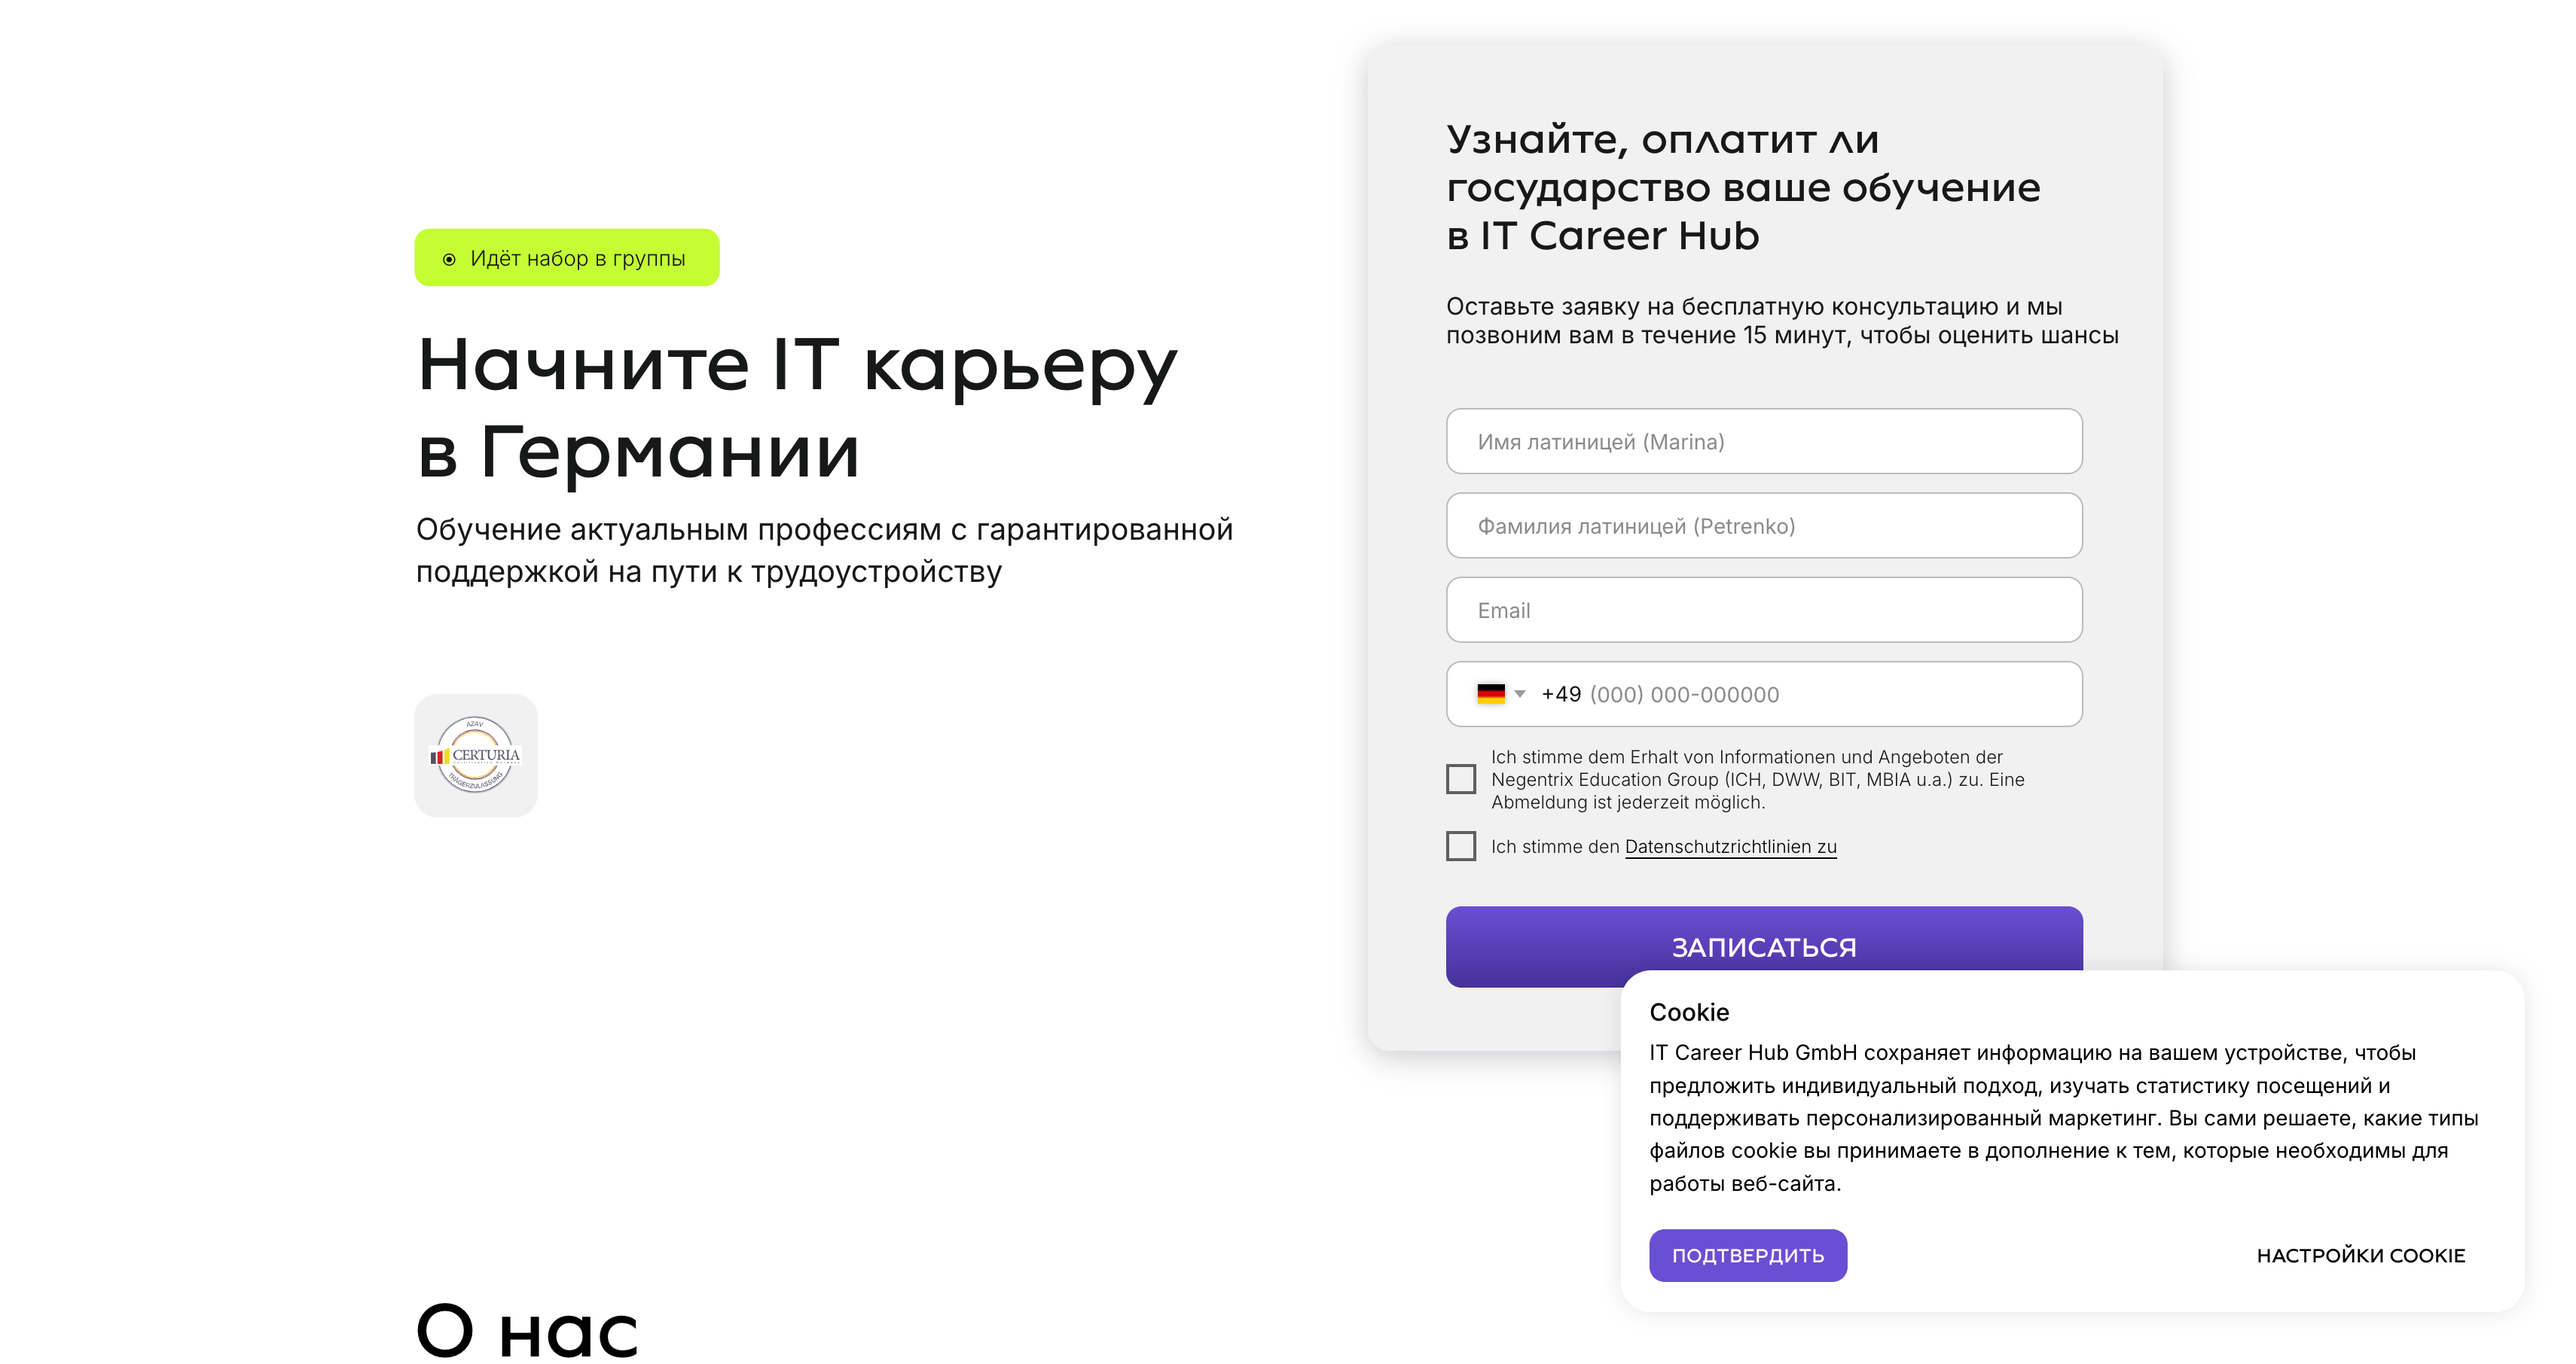
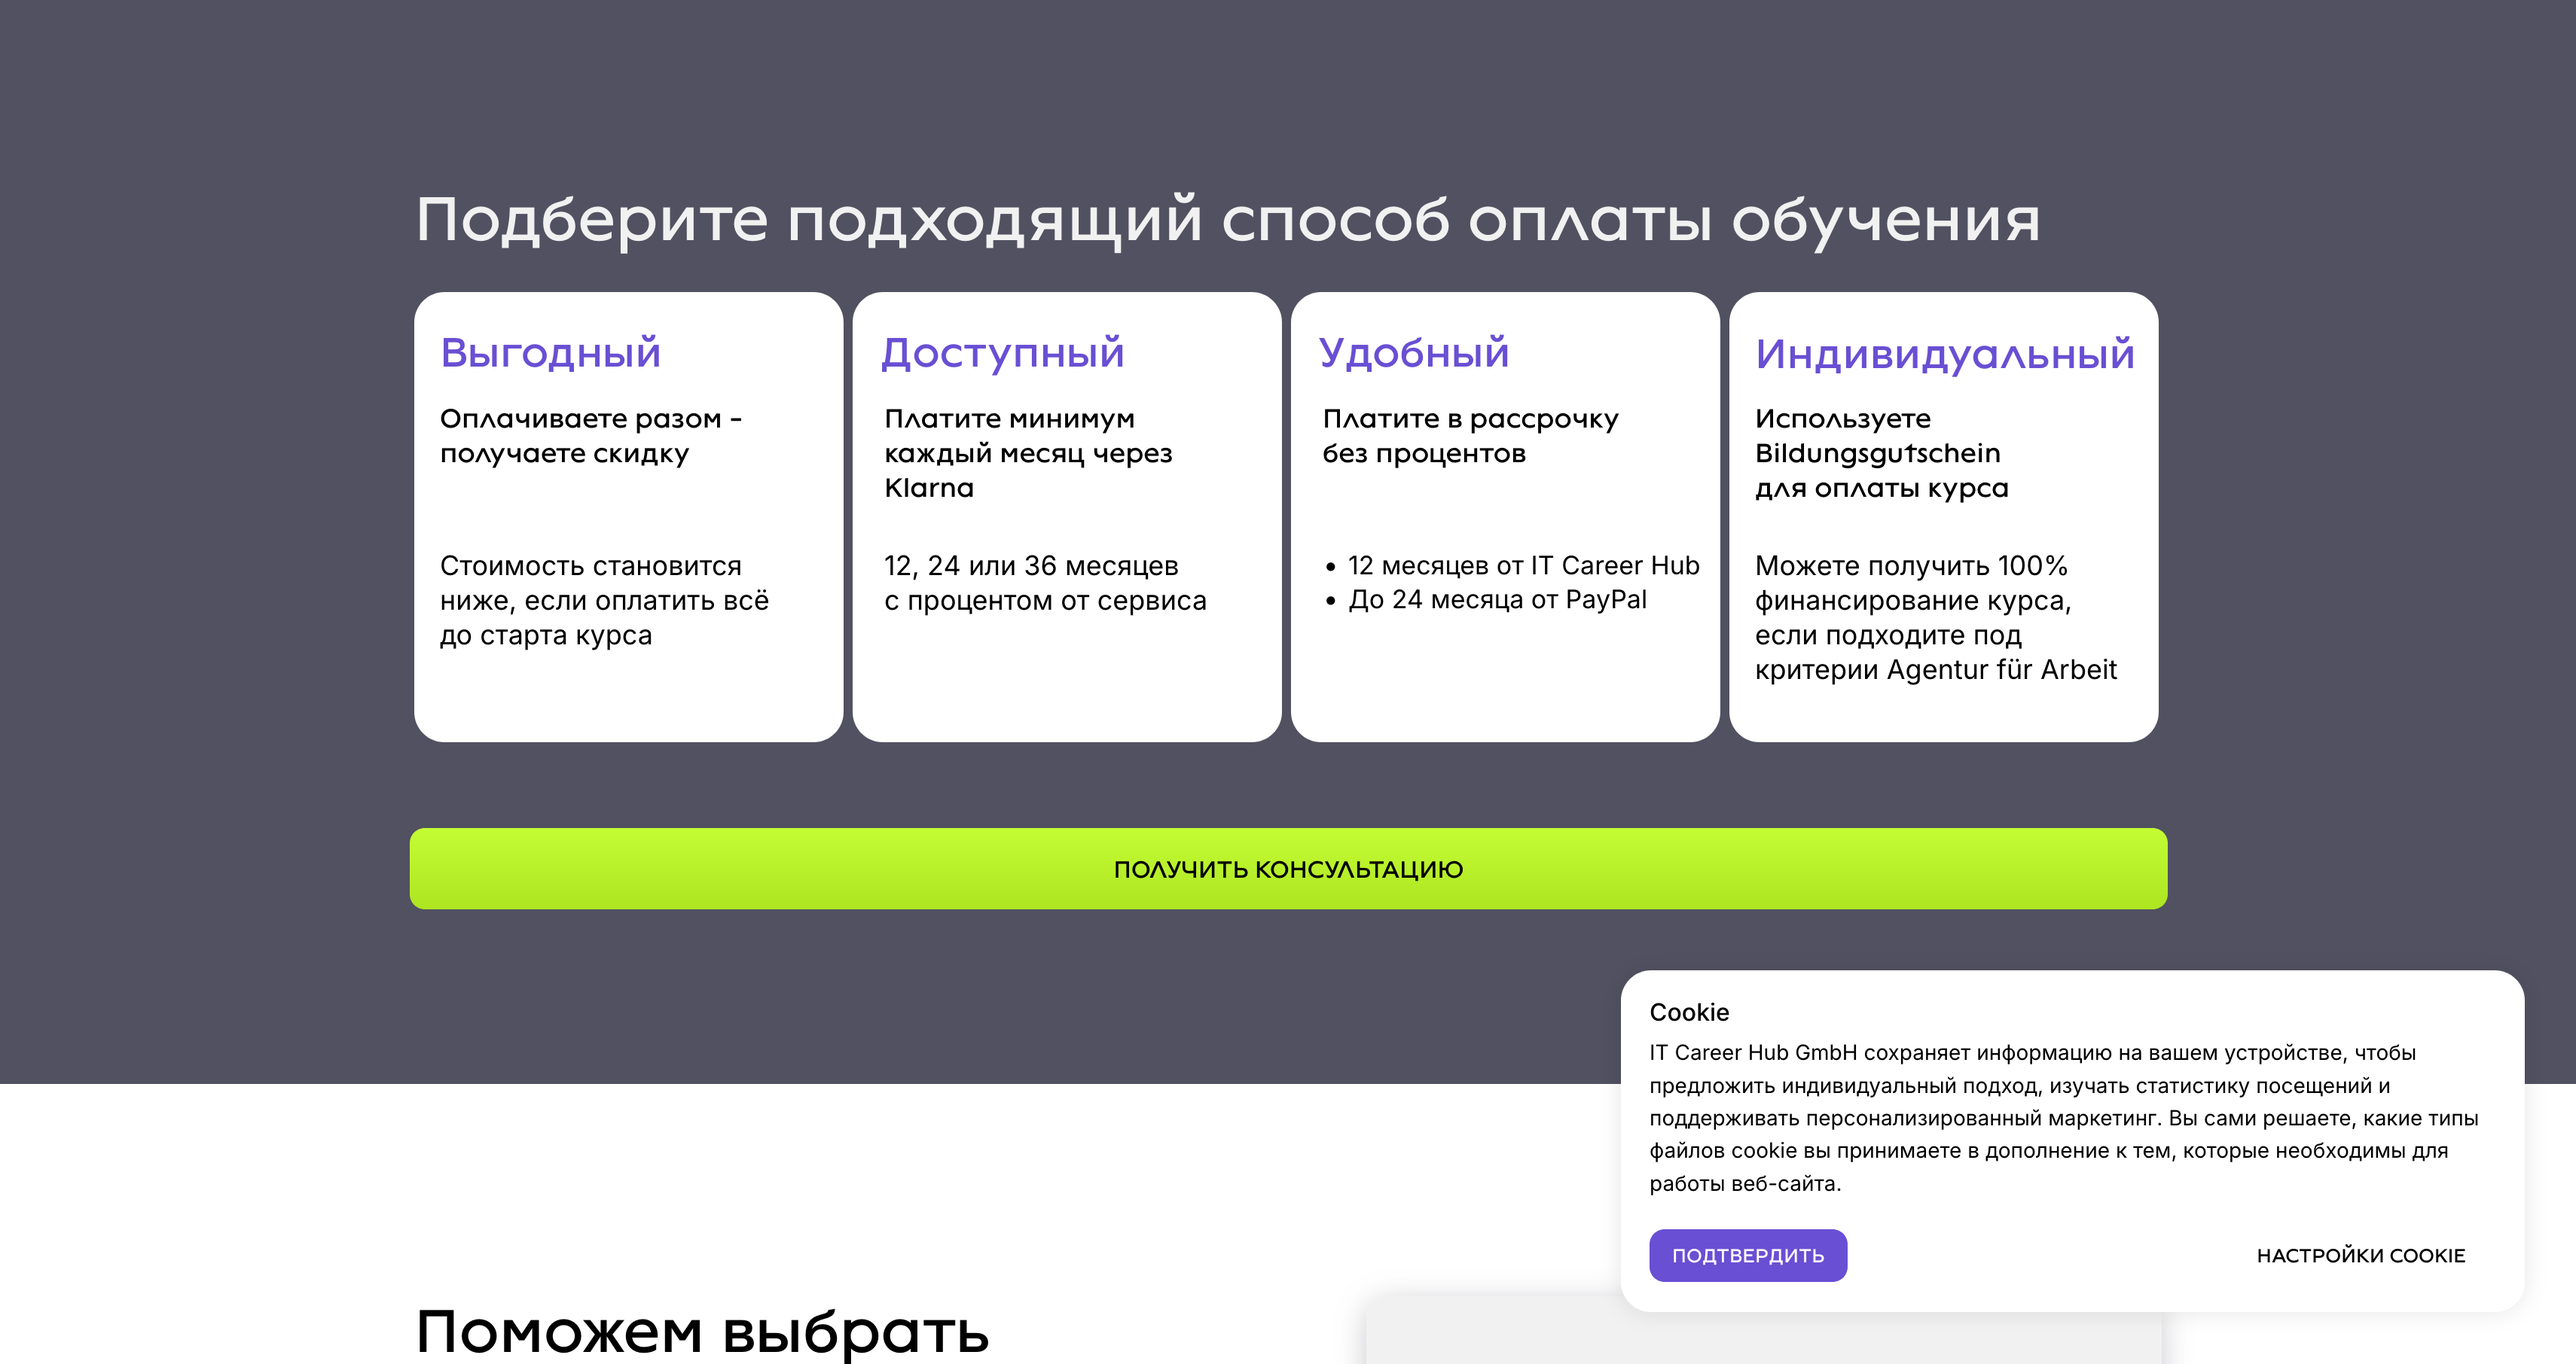
added normal screen  HW2

diff --git a/HW_2/test_task.py b/HW_2/test_task.py
@@ -17,9 +17,9 @@ def driver():
 
 def test_about_page(driver):
     driver.get("https://itcareerhub.de/ru")
-    sleep(2)
     about_link = driver.find_element(By.LINK_TEXT, "Способы оплаты")
     about_link.click()
+    sleep(3)
     driver.save_screenshot("HW_2/ICH.png")
-    sleep(2)
+
 
